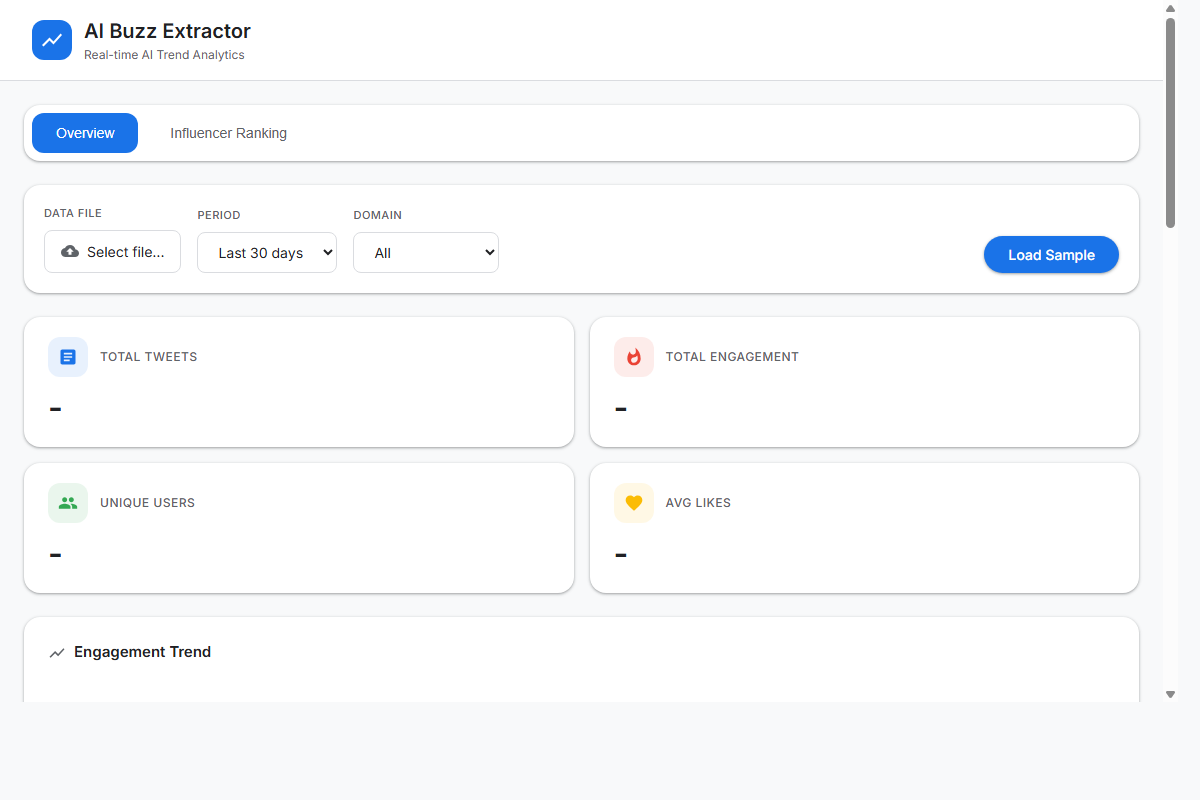
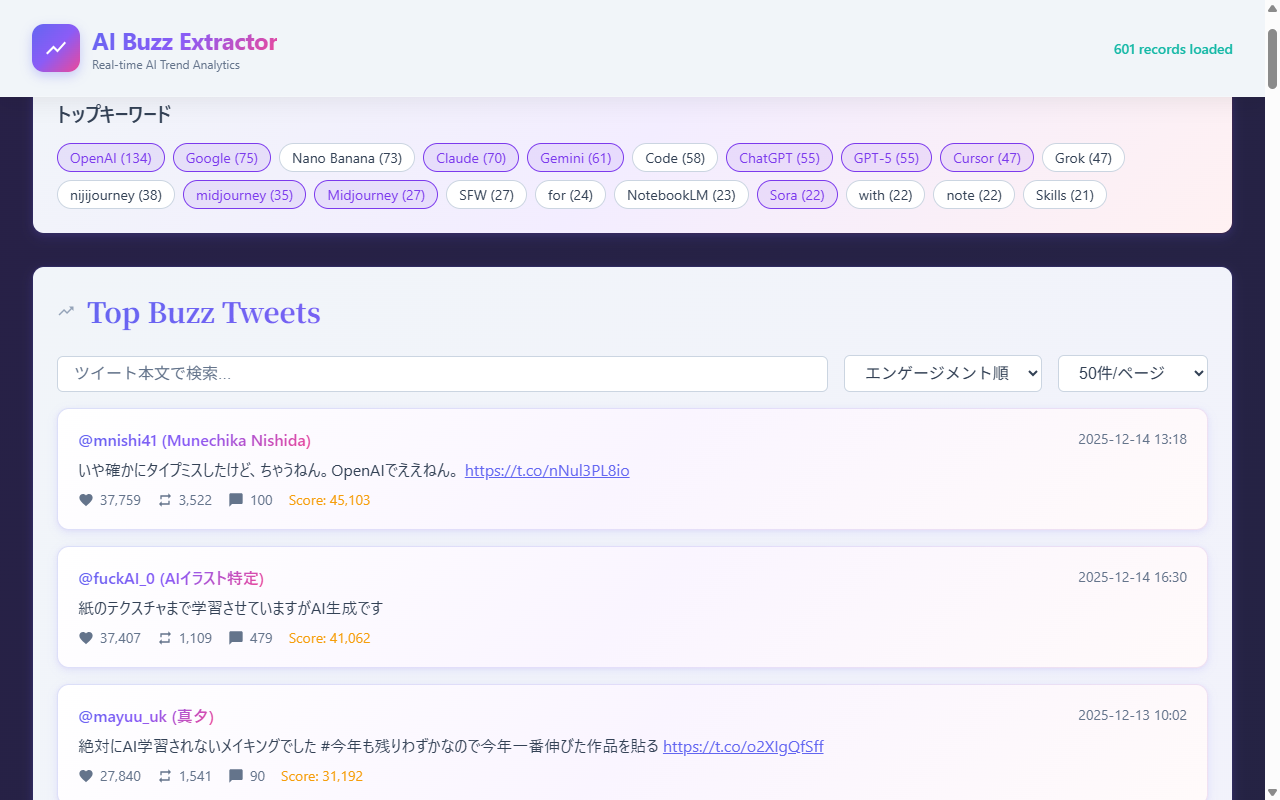
AI Buzz Extractor: サムネイル&説明文を現状UIに更新
変更内容:
- サムネイル画像を最新のUIスクリーンショットに更新
  - トップキーワードバブル表示
  - Top Buzz Tweetsリスト
  - 検索・フィルター機能を含む現状のデザイン

- プロジェクト説明を現状に合わせて修正
  - 600件超のデータ件数を明記
  - トップキーワードバブル表示を追加
  - エンゲージメントスコア付きリスト表示を明記
  - 検索・ソート機能を追加

🤖 Generated with [Claude Code](https://claude.ai/code)

diff --git a/projects.html b/projects.html
@@ -1437,7 +1437,7 @@
                          style="width: 100%; border-radius: 8px; border: 1px solid #e5e5e5;">
                 </div>
                 <p class="project-description" data-i18n="project_ai_buzz_desc">
-                    X.comからAI関連のバズツイートを自動収集・分析するリアルタイムダッシュボード。5つのドメイン（AI開発ツール・AI創作物・AIモデル・AIニュース・AIナレッジ）にツイートを自動分類し、エンゲージメント推移・トップキーワード・インフルエンサーランキングを可視化。GitHub Actions自動収集（6時間ごと）+ Chart.js動的可視化により、AI業界のトレンドをリアルタイムで把握できます。
+                    X.comからAI関連のバズツイート600件超を自動収集・分析するリアルタイムダッシュボード。トップキーワード（OpenAI・Claude・Gemini等）をバブル表示し、エンゲージメントスコア付きツイートリストで話題の投稿を一覧化。期間・ドメイン・キーワードでのフィルタリング機能により、AI業界のトレンドを直感的に把握できます。GitHub Actions自動収集（6時間ごと）+ 検索・ソート機能による高速データアクセス。
                 </p>
                 <div class="tech-stack">
                     <span class="tech-tag">X.com API</span>
